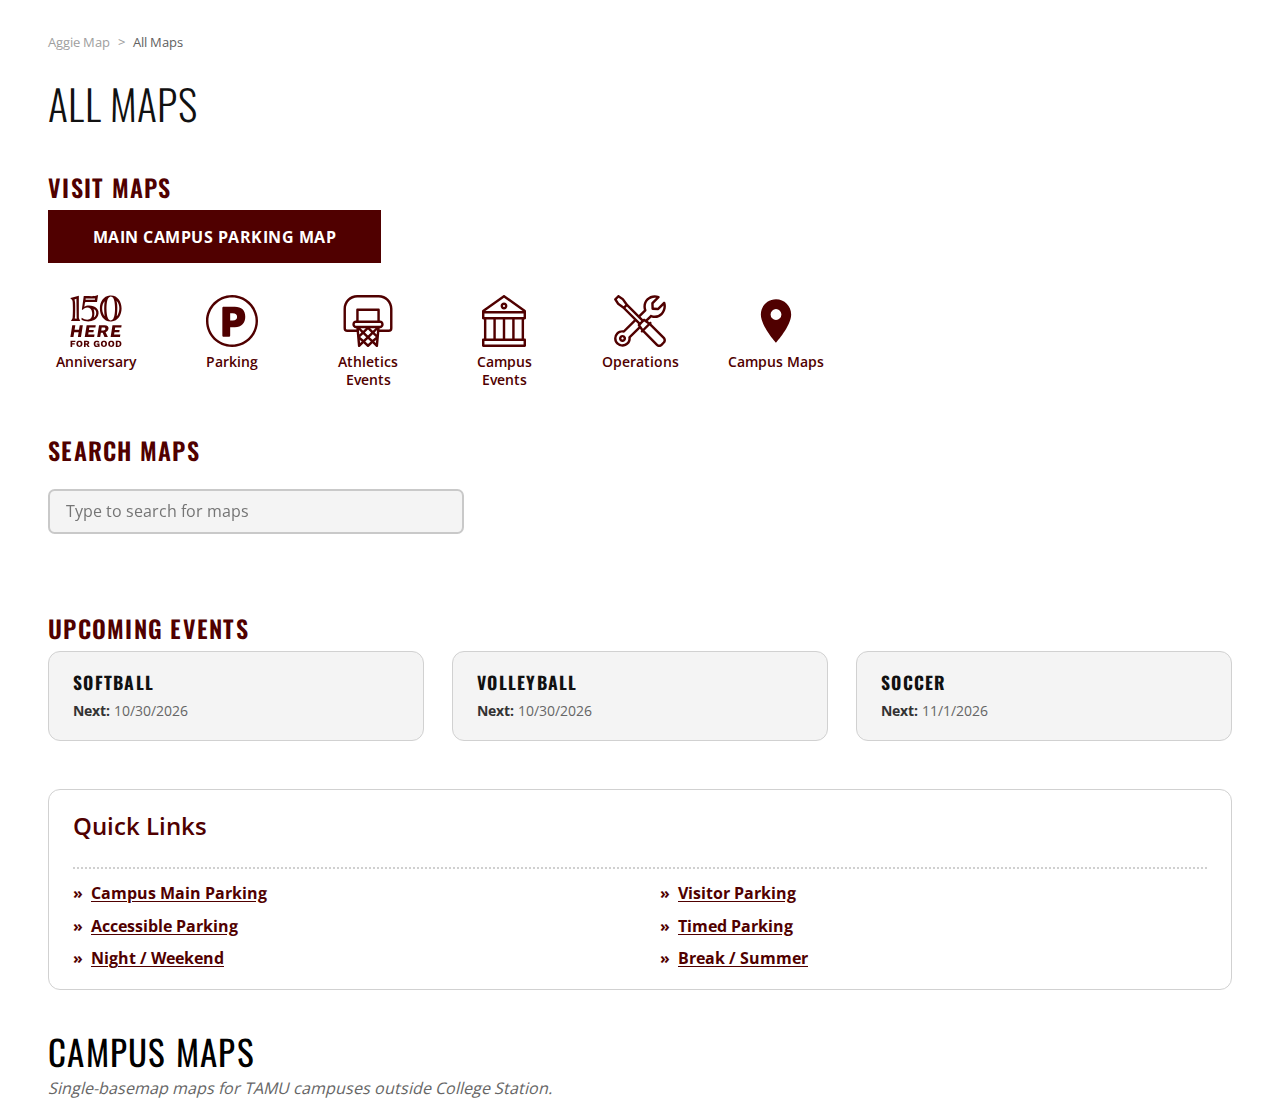
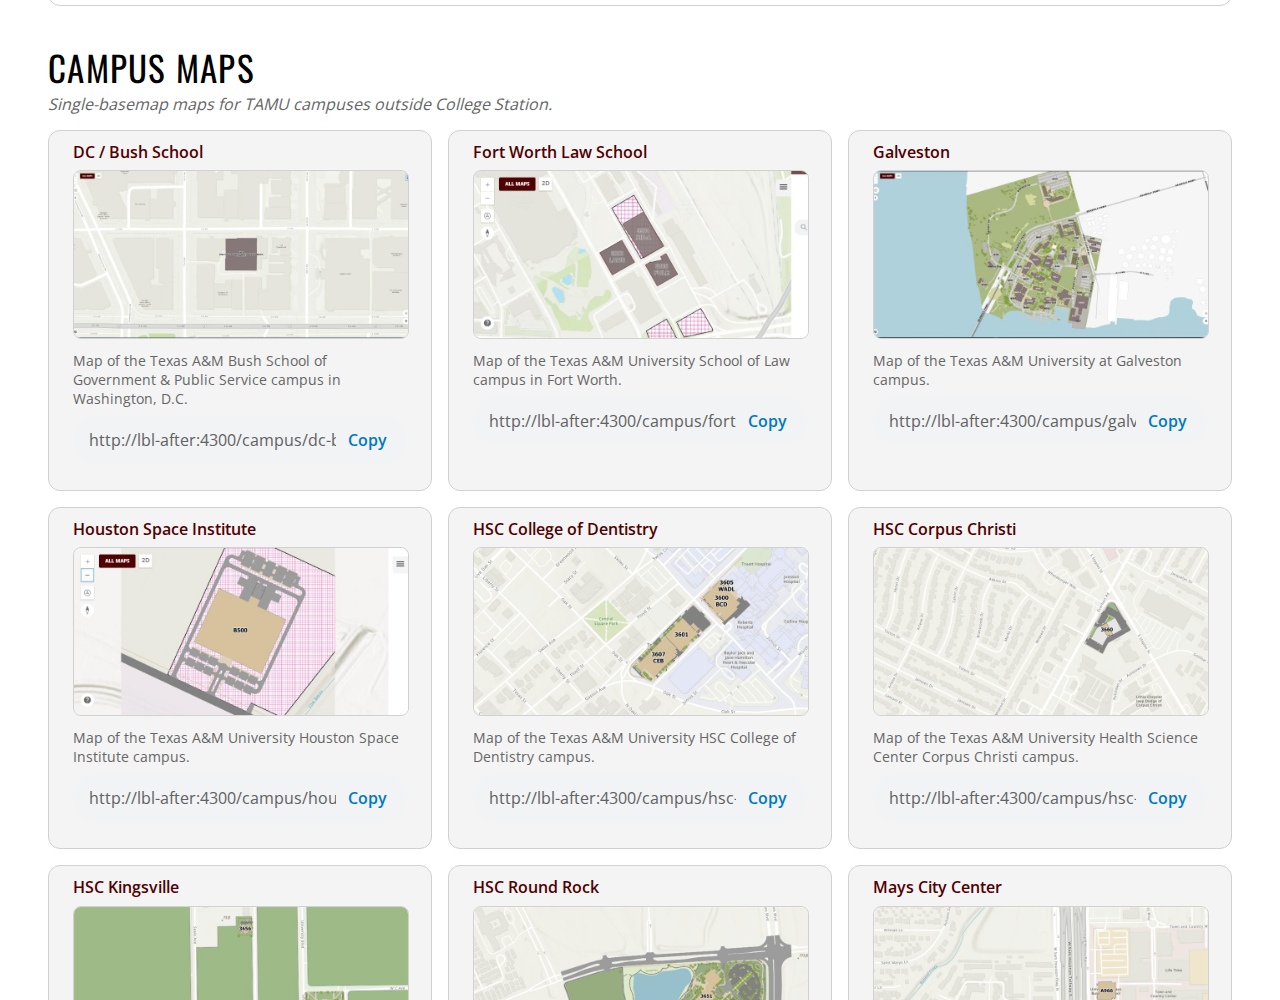
docs(aggiemap): The campus names are above their pictures at every width, with the screenshots (#2458)

diff --git a/docs/releases/unreleased/2458-campus-name-spacing.md b/docs/releases/unreleased/2458-campus-name-spacing.md
@@ -1,22 +1,24 @@
 ---
 issue: 2458
-title: On a phone, each campus map's name is shown above its own picture, with more space between maps
+title: Each campus map's name is shown above its own picture, with more space between maps
 testOnDev: |
-  | Campus Maps on a phone ([#2458](https://github.com/TamuGeoInnovation/Tamu.GeoInnovation.js.monorepo/issues/2458)) | [dev.aggiemap.tamu.edu/all-maps/campus](https://dev.aggiemap.tamu.edu/all-maps/campus) at phone width (375 px, or any window under 769 px wide), scroll down the list. Also [/all-maps](https://dev.aggiemap.tamu.edu/all-maps), the Campus Maps section | Each campus name is above its own picture, close to it, with clearly more space between one map and the next, so it is clear which name goes with which picture. On /all-maps each card is a clear step apart from the next. At desktop width both pages look exactly as before, with the name under the picture |
+  | Campus Maps names above their pictures ([#2458](https://github.com/TamuGeoInnovation/Tamu.GeoInnovation.js.monorepo/issues/2458)) | [dev.aggiemap.tamu.edu/all-maps/campus](https://dev.aggiemap.tamu.edu/all-maps/campus), on a phone (375 px, or any window under 769 px wide) and on a desktop, scrolling down the list. Also [/all-maps](https://dev.aggiemap.tamu.edu/all-maps), the Campus Maps section | At every width each campus name is above its own picture, close to it, with clearly more space between one map and the next, so it is clear which name goes with which picture. On /all-maps the name is at the top of each card, above its picture. On the desktop grid the rows are a little taller than before |
 ---
-### Campus Maps: on a phone, each name is above its own picture
-On a phone the Campus Maps page (`/all-maps/campus`) stacks its maps in one column with no card
-around them, and a map's name sat below its own picture and almost as close to the next map's
-picture, so it read as belonging to the next one. On a phone the name is now shown **above** its own
-picture, and the space between one map and the next is more than four times the space between a name
-and its picture. The Campus Maps cards on `/all-maps` get the same treatment, with more space between
-the cards. On a wider screen nothing moves: the name is still under the picture.
+### Campus Maps: each name is above its own picture
+On the Campus Maps page (`/all-maps/campus`) a map's name sat below its own picture and almost as close
+to the next map's picture, so it read as belonging to the next one, on a phone and on a desktop grid
+alike. The name is now shown **above** its own picture on every screen size, and the space between one
+map and the next is more than four times the space between a name and its picture. The Campus Maps cards
+on `/all-maps` get the same treatment, with the name at the top of the card and, on a phone, more space
+between the cards.
 
-The name now comes first in the page's markup as well, so a screen reader announces the name before the
-picture it belongs to on every screen size; only the layout differs by width
+The name now comes first in the page's markup too, so a screen reader announces the name before the
+picture and the order heard is the order seen
 ([#2458](https://github.com/TamuGeoInnovation/Tamu.GeoInnovation.js.monorepo/issues/2458)).
 
 | Before | After |
 | --- | --- |
 | ![Campus Maps page on a phone; each name is 8 px below its picture and 21 px above the next picture](../screenshots/2458-campus-name-spacing/labels-above-campus-page-before-phone.png) | ![The same page; each name is 8 px above its picture, and 37 px separates a picture from the next name](../screenshots/2458-campus-name-spacing/labels-above-campus-page-after-phone.png) |
+| ![Campus Maps page on a desktop; each name is below its picture, only 5 px above the next row's picture](../screenshots/2458-campus-name-spacing/labels-above-campus-page-before-desktop.png) | ![The same page; each name is above its picture, 37 px below the row above](../screenshots/2458-campus-name-spacing/labels-above-campus-page-after-desktop.png) |
 | ![Campus Maps cards on a phone; each name is below its picture, 16 px between cards](../screenshots/2458-campus-name-spacing/labels-above-all-maps-before-phone.png) | ![The same cards; each name is above its picture, 32 px between cards](../screenshots/2458-campus-name-spacing/labels-above-all-maps-after-phone.png) |
+| ![Campus Maps cards on a desktop; each name is below its picture](../screenshots/2458-campus-name-spacing/labels-above-all-maps-before-desktop.png) | ![The same cards; each name is at the top of its card, above its picture](../screenshots/2458-campus-name-spacing/labels-above-all-maps-after-desktop.png) |
